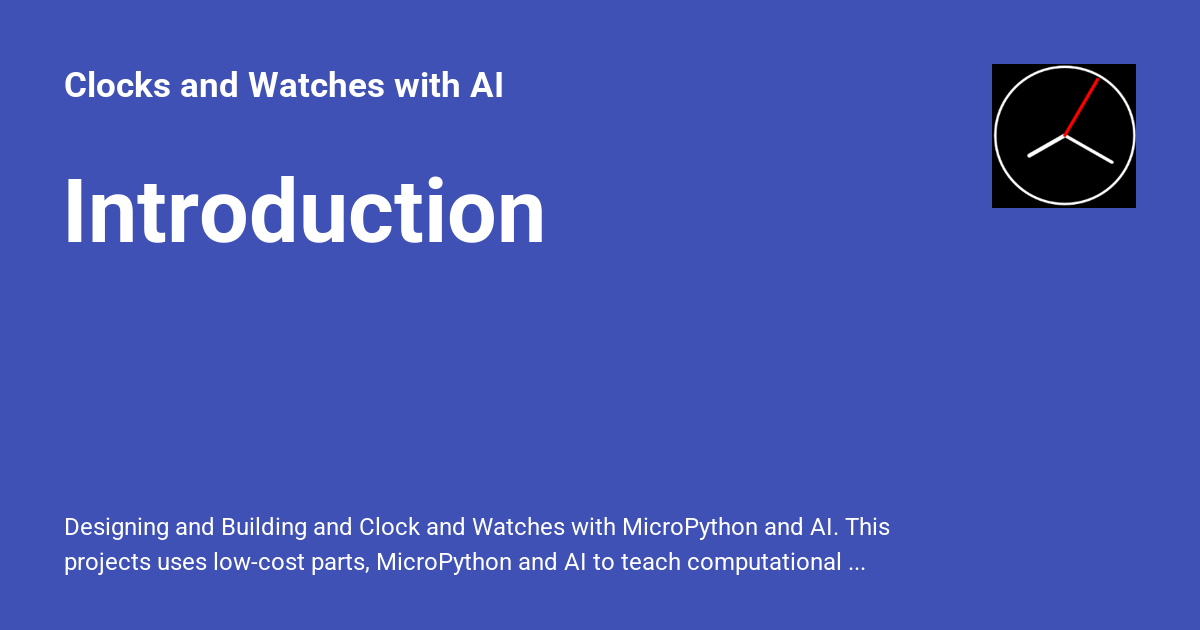
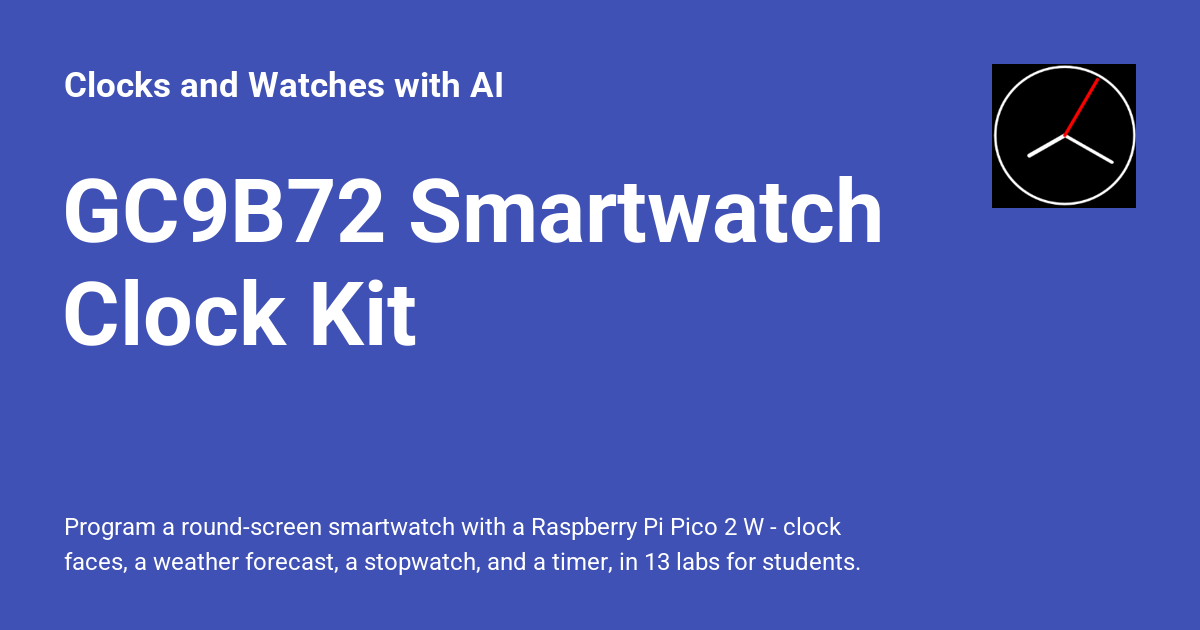
Deployed a34b5121 with MkDocs version: 1.6.1

Changed region(s): [[0.0617, 0.2714, 0.74, 0.3921], [0.0308, 0.8143, 0.74, 0.9048], [0.0308, 0.4222, 0.3392, 0.573]]

diff --git a/kits/sw-gc9b72/index.html b/kits/sw-gc9b72/index.html
@@ -6,7 +6,7 @@
       <meta charset="utf-8">
       <meta name="viewport" content="width=device-width,initial-scale=1">
       
-        <meta name="description" content="Designing and Building and Clock and Watches with MicroPython and AI.  This projects uses low-cost parts, MicroPython and AI to teach computational thinking.">
+        <meta name="description" content="Program a round-screen smartwatch with a Raspberry Pi Pico 2 W - clock faces, a weather forecast, a stopwatch, and a timer, in 13 labs for students.">
       
       
         <meta name="author" content="Dan McCreary">
@@ -29,7 +29,7 @@
     
     
       
-        <title>Introduction - Clocks and Watches with AI</title>
+        <title>GC9B72 Smartwatch Clock Kit - Clocks and Watches with AI</title>
       
     
     
@@ -75,17 +75,17 @@
     
   
 <meta property="og:type" content="website" />
-<meta property="og:title" content="Introduction - Clocks and Watches with AI" />
-<meta property="og:description" content="Designing and Building and Clock and Watches with MicroPython and AI.  This projects uses low-cost parts, MicroPython and AI to teach computational thinking." />
-<meta property="og:image" content="https://dmccreary.github.io/clocks-and-watches/assets/images/social/kits/sw-gc9b72/index.png" />
-<meta property="og:image:type" content="image/png" />
+<meta property="og:title" content="GC9B72 Smartwatch Clock Kit - Clocks and Watches with AI" />
+<meta property="og:description" content="Program a round-screen smartwatch with a Raspberry Pi Pico 2 W - clock faces, a weather forecast, a stopwatch, and a timer, in 13 labs for students." />
+<meta property="og:image" content="https://dmccreary.github.io/clocks-and-watches/kits/sw-gc9b72/img/social-card.jpg">
+<meta property="og:image:type" content="image/jpeg">
 <meta property="og:image:width" content="1200" />
 <meta property="og:image:height" content="630" />
 <meta property="og:url" content="https://dmccreary.github.io/clocks-and-watches/kits/sw-gc9b72/" />
 <meta property="twitter:card" content="summary_large_image" />
-<meta property="twitter:title" content="Introduction - Clocks and Watches with AI" />
-<meta property="twitter:description" content="Designing and Building and Clock and Watches with MicroPython and AI.  This projects uses low-cost parts, MicroPython and AI to teach computational thinking." />
-<meta property="twitter:image" content="https://dmccreary.github.io/clocks-and-watches/assets/images/social/kits/sw-gc9b72/index.png" />
+<meta property="twitter:title" content="GC9B72 Smartwatch Clock Kit - Clocks and Watches with AI" />
+<meta property="twitter:description" content="Program a round-screen smartwatch with a Raspberry Pi Pico 2 W - clock faces, a weather forecast, a stopwatch, and a timer, in 13 labs for students." />
+<meta property="twitter:image" content="https://dmccreary.github.io/clocks-and-watches/kits/sw-gc9b72/img/social-card.jpg">
 </head>
   
   
@@ -138,7 +138,7 @@
         <div class="md-header__topic" data-md-component="header-topic">
           <span class="md-ellipsis">
             
-              Introduction
+              GC9B72 Smartwatch Clock Kit
             
           </span>
         </div>
@@ -3046,6 +3046,9 @@ simulator of the display.</p>
 
 
 
+
+  
+  
 
 
 

diff --git a/sims/seven-segment-display/index.html b/sims/seven-segment-display/index.html
@@ -77,15 +77,15 @@
 <meta property="og:type" content="website" />
 <meta property="og:title" content="Seven-Segment Display - Clocks and Watches with AI" />
 <meta property="og:description" content="Interactive p5.js simulation demonstrating how seven-segment displays work with individual segment control" />
-<meta property="og:image" content="https://dmccreary.github.io/clocks-and-watches/assets/images/social/sims/seven-segment-display/index.png" />
-<meta property="og:image:type" content="image/png" />
+<meta property="og:image" content="https://dmccreary.github.io/clocks-and-watches/sims/seven-segment-display/7-segment-display.png">
+<meta property="og:image:type" content="image/png">
 <meta property="og:image:width" content="1200" />
 <meta property="og:image:height" content="630" />
 <meta property="og:url" content="https://dmccreary.github.io/clocks-and-watches/sims/seven-segment-display/" />
 <meta property="twitter:card" content="summary_large_image" />
 <meta property="twitter:title" content="Seven-Segment Display - Clocks and Watches with AI" />
 <meta property="twitter:description" content="Interactive p5.js simulation demonstrating how seven-segment displays work with individual segment control" />
-<meta property="twitter:image" content="https://dmccreary.github.io/clocks-and-watches/assets/images/social/sims/seven-segment-display/index.png" />
+<meta property="twitter:image" content="https://dmccreary.github.io/clocks-and-watches/sims/seven-segment-display/7-segment-display.png">
 </head>
   
   

diff --git a/sims/analog-clock/index.html b/sims/analog-clock/index.html
@@ -77,15 +77,15 @@
 <meta property="og:type" content="website" />
 <meta property="og:title" content="Analog Clock - Clocks and Watches with AI" />
 <meta property="og:description" content="Interactive p5.js analog clock simulation with manual and automatic modes, demonstrating trigonometric functions for hand positioning" />
-<meta property="og:image" content="https://dmccreary.github.io/clocks-and-watches/assets/images/social/sims/analog-clock/index.png" />
-<meta property="og:image:type" content="image/png" />
+<meta property="og:image" content="https://dmccreary.github.io/clocks-and-watches/sims/analog-clock/analog-clock.png">
+<meta property="og:image:type" content="image/png">
 <meta property="og:image:width" content="1200" />
 <meta property="og:image:height" content="630" />
 <meta property="og:url" content="https://dmccreary.github.io/clocks-and-watches/sims/analog-clock/" />
 <meta property="twitter:card" content="summary_large_image" />
 <meta property="twitter:title" content="Analog Clock - Clocks and Watches with AI" />
 <meta property="twitter:description" content="Interactive p5.js analog clock simulation with manual and automatic modes, demonstrating trigonometric functions for hand positioning" />
-<meta property="twitter:image" content="https://dmccreary.github.io/clocks-and-watches/assets/images/social/sims/analog-clock/index.png" />
+<meta property="twitter:image" content="https://dmccreary.github.io/clocks-and-watches/sims/analog-clock/analog-clock.png">
 </head>
   
   

diff --git a/sims/battery-drain/index.html b/sims/battery-drain/index.html
@@ -77,15 +77,15 @@
 <meta property="og:type" content="website" />
 <meta property="og:title" content="Battery Drain - Clocks and Watches with AI" />
 <meta property="og:description" content="Interactive p5.js simulation demonstrating battery discharge rates when powering a motor at different speeds" />
-<meta property="og:image" content="https://dmccreary.github.io/clocks-and-watches/assets/images/social/sims/battery-drain/index.png" />
-<meta property="og:image:type" content="image/png" />
+<meta property="og:image" content="https://dmccreary.github.io/clocks-and-watches/sims/battery-drain/battery-drain.png">
+<meta property="og:image:type" content="image/png">
 <meta property="og:image:width" content="1200" />
 <meta property="og:image:height" content="630" />
 <meta property="og:url" content="https://dmccreary.github.io/clocks-and-watches/sims/battery-drain/" />
 <meta property="twitter:card" content="summary_large_image" />
 <meta property="twitter:title" content="Battery Drain - Clocks and Watches with AI" />
 <meta property="twitter:description" content="Interactive p5.js simulation demonstrating battery discharge rates when powering a motor at different speeds" />
-<meta property="twitter:image" content="https://dmccreary.github.io/clocks-and-watches/assets/images/social/sims/battery-drain/index.png" />
+<meta property="twitter:image" content="https://dmccreary.github.io/clocks-and-watches/sims/battery-drain/battery-drain.png">
 </head>
   
   

diff --git a/sims/binary-number/index.html b/sims/binary-number/index.html
@@ -77,15 +77,15 @@
 <meta property="og:type" content="website" />
 <meta property="og:title" content="Binary Number - Clocks and Watches with AI" />
 <meta property="og:description" content="Interactive p5.js simulation for learning binary numbers with toggle buttons and decimal conversion display" />
-<meta property="og:image" content="https://dmccreary.github.io/clocks-and-watches/assets/images/social/sims/binary-number/index.png" />
-<meta property="og:image:type" content="image/png" />
+<meta property="og:image" content="https://dmccreary.github.io/clocks-and-watches/sims/binary-number/binary-number.png">
+<meta property="og:image:type" content="image/png">
 <meta property="og:image:width" content="1200" />
 <meta property="og:image:height" content="630" />
 <meta property="og:url" content="https://dmccreary.github.io/clocks-and-watches/sims/binary-number/" />
 <meta property="twitter:card" content="summary_large_image" />
 <meta property="twitter:title" content="Binary Number - Clocks and Watches with AI" />
 <meta property="twitter:description" content="Interactive p5.js simulation for learning binary numbers with toggle buttons and decimal conversion display" />
-<meta property="twitter:image" content="https://dmccreary.github.io/clocks-and-watches/assets/images/social/sims/binary-number/index.png" />
+<meta property="twitter:image" content="https://dmccreary.github.io/clocks-and-watches/sims/binary-number/binary-number.png">
 </head>
   
   
